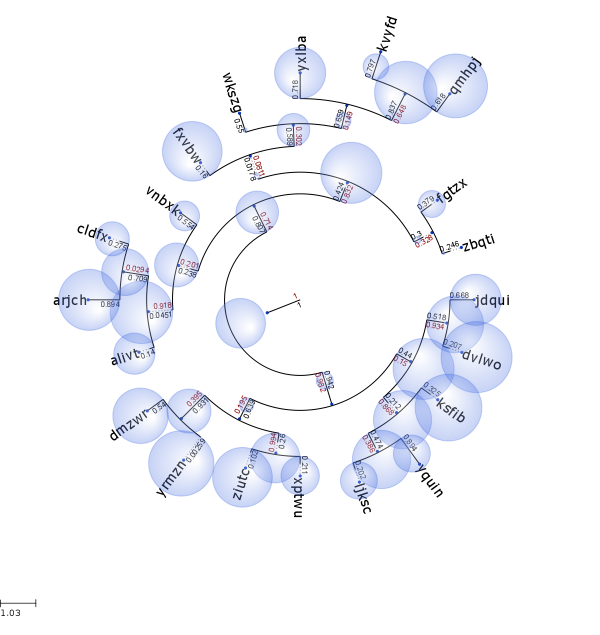
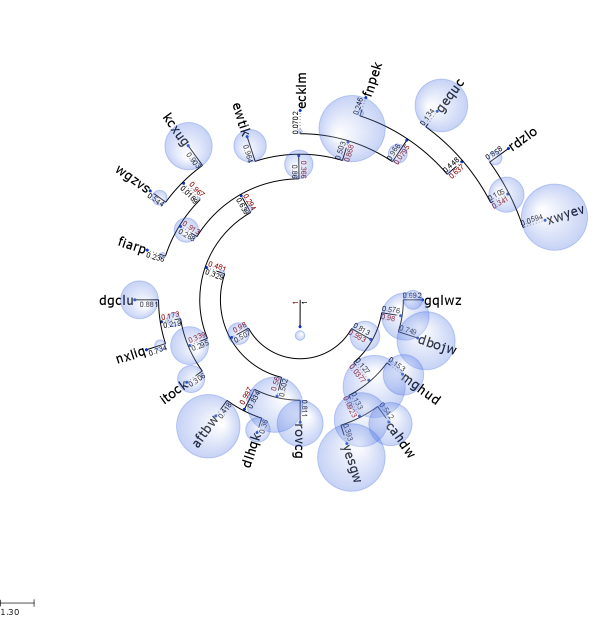
added tree_faces example to tutorial

diff --git a/examples/treeview/tree_faces.py b/examples/treeview/tree_faces.py
@@ -1,0 +1,48 @@
+import random
+from ete_dev import Tree, TreeStyle, NodeStyle, faces, AttrFace, TreeFace
+
+small_ts = TreeStyle()
+small_ts.tree_width = 100
+small_ts.show_leaf_name = True
+
+def layout(node):
+    if node.is_leaf():
+        # Add node name to laef nodes
+        N = AttrFace("name", fsize=14, fgcolor="black")
+        faces.add_face_to_node(N, node, 0)
+
+        t = Tree()
+        t.populate(10)
+
+        T = TreeFace(t, small_ts)
+        # Let's make the sphere transparent 
+        T.opacity = 0.8
+        # And place as a float face over the tree
+        faces.add_face_to_node(T, node, 1, position="aligned")
+
+# Random tree
+t = Tree()
+t.populate(20, random_branches=True)
+
+# Some random features in all nodes
+for n in t.traverse():
+    n.add_features(weight=random.randint(0, 50))
+
+# Create an empty TreeStyle
+ts = TreeStyle()
+
+# Set our custom layout function
+ts.layout_fn = layout
+
+# Draw a tree 
+ts.mode = "c"
+
+# We will add node names manually
+ts.show_leaf_name = False
+# Show branch data
+ts.show_branch_length = True
+ts.show_branch_support = True
+
+t.render("tree_faces.png", w=600, dpi=300, tree_style=ts)
+t.show(tree_style=ts)
+ 

diff --git a/ete_dev/treeview/faces.py b/ete_dev/treeview/faces.py
@@ -893,6 +893,8 @@ class CircleFace(Face):
 
 class StaticItemFace(Face):
     """
+    .. versionadded:: 2.1
+
     Creates a face based on an external QtGraphicsItem object.
     QGraphicsItem object is expected to be independent from tree node
     properties, so its content is assumed to be static (drawn only

diff --git a/examples/treeview/item_faces.py b/examples/treeview/item_faces.py
@@ -39,8 +39,6 @@ class InteractiveItem(QGraphicsRectItem):
         if self.label: 
             self.label.setVisible(False)
 
-
-
 def random_color(h=None):
     """Generates a random color in RGB format.""" 
     if not h:

diff --git a/doc/changelog/changelog2.1.rst b/doc/changelog/changelog2.1.rst
@@ -30,7 +30,7 @@ What's new in ETE 2.1
   * Added new face types:
      * :class:`CircleFace` (basic circle/sphere forms)
      * :class:`TreeFace` (trees within trees)
-     * :class:`ItemFace` (create custom and interactive QtGraphicsItems)
+     * :class:`StaticItemFace` and :class:`DynamicItemFace` (create custom and interactive QtGraphicsItems)
   * Improved faces:
      * :class:`AttrFace` accepts prefix and suffix text, as well as a
        text formatter function. :attr:`fstyle` argument can be set to

diff --git a/doc/tutorial/tutorial_drawing.rst b/doc/tutorial/tutorial_drawing.rst
@@ -484,6 +484,14 @@ Bubble tree maps
 
  .. literalinclude:: ../../examples/treeview/bubble_map.py
 
+Trees within trees
+-------------------
+
+ .. figure:: ../../examples/treeview/tree_faces.png
+
+ .. literalinclude:: ../../examples/treeview/tree_faces.py
+
+
 Creating your custom interactive Item faces
 -------------------------------------------
 
